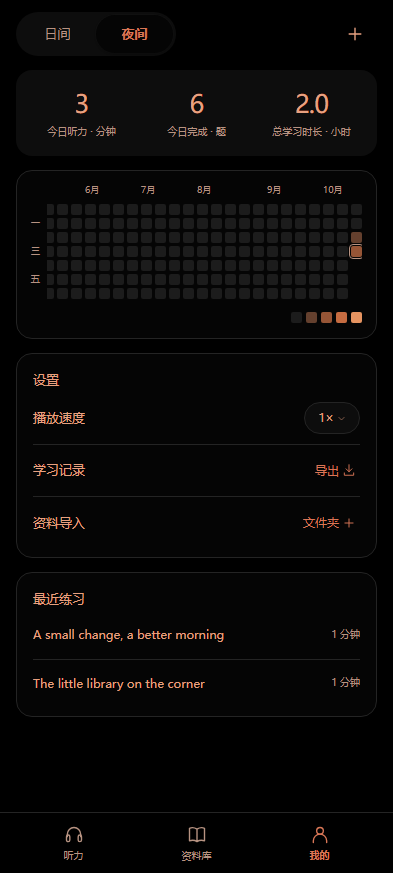
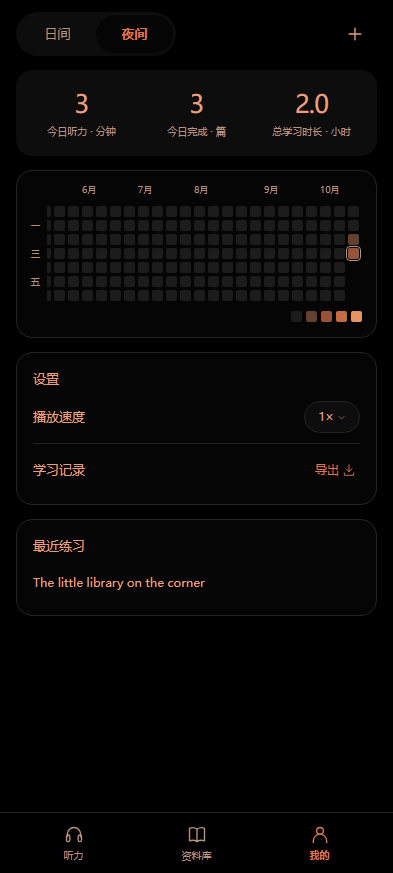
Document 1.0.7 paper selection and completed-session accounting

diff --git a/docs/papers-and-completion.md b/docs/papers-and-completion.md
@@ -1,0 +1,31 @@
+# 套卷目录与整篇完成统计（1.0.7）
+
+资料库先按套卷显示，年份和材料类别采用无外部焦点矩形的文字菜单。点击套卷标题会选择该套并进入文章目录，右侧选择图标可直接选定套卷。日间选中套卷为灰色，夜间为橙色；选择保存在本地，首页仅陈列该套内的文章。目录返回按钮和安卓返回键回到套卷列表，筛选菜单打开时返回键只关闭菜单。
+
+首页点击其他文章的播放按钮会立即将该文章更新为置顶材料，不必先进入正文；新置顶播放按钮可暂停该录音。材料列表、文章目录、正文标题和最近练习统一移除末尾的题号范围，例如 `Section A · 第 1 篇 · 1–4 题` 显示为 `Section A · 第 1 篇`。源文件、材料编号、实际题目编号和音频对齐不变。
+
+日历网格内侧保留 3 px 空间，完整显示最右侧当日色块与描边；隐藏滚动条，全年横向滑动仍可用。“我的”移除重复的资料导入行，顶部加号保留。
+
+## 统计口径
+
+- 今日完成：以篇为单位，全部题目提交后才计一篇，不要求每题正确或进入成绩页。重复提交与重开不重复计数；完整重做一轮可再计一篇，部分重做不计。
+- 最近练习：只列出完整完成过题目的文章，按最近一次整篇完成时间排序，移除分钟后缀。单纯播放和部分作答不新增或刷新该记录。
+- 今日听力：完整文章的播放覆盖全部音频后，才将该轮实际听音频的秒数计入，累积并换算为整数分钟。拖到结尾、跳过未听片段和独立分题切片不视为完整播放；暂停、返回或重启后的未完成覆盖可继续累积。
+- 跨午夜的听力：完整听完后按实际听音频的本地日期入账，不将昨日秒数全部归到今日。未完成时，这些秒数只保留在累计学习时长中。
+- 总学习时长继续保留实际听力时间及不重叠的前台做题时间；日历颜色仍按当日提交的题次表示活跃程度。
+
+旧答案、收藏、导入文件和累计学习时间保留。旧版当前答案能证明整篇完成且有有效提交时间时，迁移到最后一次提交日期；旧版已被覆盖的多次完整重做无法补回。旧听力计数不能证明完整播放，因此不推测完整听力分钟。统计字段使用同一存储键升级，材料与答案编号不改变。
+
+## 验证
+
+41 项源码检查通过，其中 30 项覆盖统计、迁移、重复提交、整篇重做、连续播放范围、跨午夜、重载及夏令时。浏览器 17 项交互检查覆盖二级目录、套卷选择与重载、首页即时置顶、干净标题、完成统计、实际 2 秒录音的自然结束与跳到结尾不计入；另外 18 组屏幕尺寸／安全区布局及 86 项实际真题音频回归通过。
+
+[Android 8 / 11 / 16 云端实装与浏览器流程](https://github.com/AITopia-Shao/listenly-android/actions/runs/38567587075) 四项作业首次全部通过。各系统验证筛选／目录返回、套卷选择、统计界面、日历描边及原有交互，并分别完成 15 个播放场景与 8 项 Range 字节／哈希校验。单篇云端夹具不声称验证跨文章首页置顶；该项由双文章浏览器和本地安装包真实触摸验证。
+
+最终轻量包与公开演示包另在本地 Android 16 / WebView 133 各通过 16 个触摸播放场景和 8 项 Range 校验，答案与导入清单保持一致。realme GT7 / realme UI 7.0 尚未直接复测本版。
+
+| 套卷列表 | 套内文章 | 筛选菜单 |
+| --- | --- | --- |
+| ![套卷列表](screenshots/library-papers.png) | ![套内文章](screenshots/library-articles.png) | ![筛选菜单](screenshots/library-filter.png) |
+
+截图使用原创示例；统计截图中的演示记录不进入安装包。1.0.7 使用 versionCode 8 并沿用旧签名，资料 JSON、音频 CRC 与文件长度和 1.0.6 逐一一致。

diff --git a/README.md b/README.md
@@ -8,6 +8,14 @@
 | --- | --- | --- |
 | ![首页](docs/screenshots/home.png) | ![精听](docs/screenshots/intensive.png) | ![做题](docs/screenshots/quiz.png) |
 
+## 1.0.7 的套卷目录与完成统计
+
+资料库改为套卷／文章二级目录，选择套卷后首页陈列该套文章；点击首页其他文章的播放按钮立即更新置顶。材料标题去掉末尾题号范围，年份和材料筛选采用无外部焦点框的文字菜单，日历右侧描边完整显示。
+
+今日完成按整篇统计，全部题目提交才计数；最近练习只显示做完整篇的文章并去掉分钟后缀，个人页重复导入入口移除。听力分钟在完整覆盖文章后按实际播放日期入账，跳到结尾不计，原累计学习时长保留。历史迁移及验证口径见 [套卷与整篇完成验收](docs/papers-and-completion.md)。
+
+[1.0.7 安装包](https://github.com/AITopia-Shao/listenly-android/releases/tag/v1.0.7) 已发布，[Android 8 / 11 / 16 与浏览器回归](https://github.com/AITopia-Shao/listenly-android/actions/runs/38567587075) 首次运行全部通过。
+
 ## 1.0.6 的交互打磨
 
 应用图标改为黑底白色波形，夜间页面与原生背景统一调黑；日历移除冗余标题与“少／多”文字。正文显示控件顺序改为隐藏／原文／双语，并保留默认隐藏与阅读位置。
